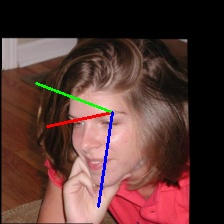
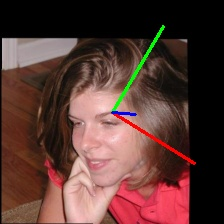
Adding wing loss

Changed region(s): [[0.1562, 0.0938, 0.875, 0.9375]]

diff --git a/losses.py b/losses.py
@@ -1,19 +1,24 @@
 from model.morhaple_face_model import PCA
 from data_generator.labels_preprocessing import label_to_3DMM, label_to_pt2d
 import tensorflow as tf
-from tensorflow.math import square, reduce_sum
-from tensorflow.keras.losses import Loss, Huber
+from tensorflow.math import square, reduce_sum, log, abs, less, greater_equal
+from tensorflow.keras.losses import Loss, Huber, MeanSquaredError
 
 class Synergy_Loss(Loss):
     def __init__(self, lamda_1=0.02, lamda_2=0.05, lamda_3=0.02,\
-         lamda_4=0.001, input_shape=(224, 224, 3), **kwargs):
+         lamda_4=0.001, input_shape=(224, 224, 3),\
+              omega=10, epsilon=2, **kwargs):
         super(Synergy_Loss, self).__init__(**kwargs)
         self.lamda_1 = lamda_1
         self.lamda_2 = lamda_2
         self.lamda_3 = lamda_3
         self.lamda_4 = lamda_4
         self.huber = Huber()
+        self.mse = MeanSquaredError()
         self.input_shape = input_shape
+        self.omega = omega
+        self.epsilon = epsilon
+        self.log_term = log(1 + self.omega/self.epsilon)
         self.pca = PCA(input_shape=self.input_shape)
         
     def call(self, y_gt, y_pred):
@@ -28,7 +33,7 @@ class Synergy_Loss(Loss):
         L_gt = self.pca(pose_3DMM_gt, alpha_exp_gt, alpha_shp_gt)
         Lr = self.pca(pose_3DMM, alpha_exp, alpha_shp)
 
-        L3DMM = self.L3DMM_loss(pose_3DMM_gt, pose_3DMM)
+        L3DMM = self.L3DMM_loss(y_gt, y_pred)
         L_lmk = self.L_lmk_loss(L_gt, Lr)
         L3DMM_lmk = 0#self.L3DMM_lmk_loss(pose_3DMM_true, pose_3DMM_hat)
         Lg = 0#self.Lg_loss(pose_3DMM, pose_3DMM_hat)
@@ -41,11 +46,19 @@ class Synergy_Loss(Loss):
         return {**base_config, "lamda_1": self.lamda_1,\
              "lamda_2": self.lamda_2, "lamda_3": self.lamda_3, "lamda_4": self.lamda_4}
 
-    def L3DMM_loss(self, alpha_true, alpha_pred):
-        return reduce_sum(square(alpha_true - alpha_pred))
+    def L3DMM_loss(self, y_gt, y_pred):
+        return self.mse(y_gt[:, 0:12], y_pred[:, 0:12]) #+ self.mse(y_gt[:, 12:], y_pred[:, 12:])
 
-    def L_lmk_loss(self, L_true, L_pred):
-        return self.huber(L_true, L_pred)
+    def L_lmk_loss(self, L_gt, L_pred):
+        y_pred = tf.reshape(L_pred, (-1, L_pred.shape[1]*3))
+        y_gt = tf.reshape(L_gt, (-1, L_gt.shape[1]*3))
+        delta_y = abs(y_gt - y_pred)
+        is_less_than = less(delta_y, self.omega)
+        loss1 = self.omega * log(1 + delta_y/self.epsilon)
+        C = self.omega * (1 - self.log_term)
+        loss2 = delta_y - C
+        loss = tf.where(is_less_than, loss1, loss2)
+        return loss
     
     def L3DMM_lmk_loss(self, alpha_true, alpha_hat):
         return reduce_sum(square(alpha_true - alpha_hat))

diff --git a/sanity_check.py b/sanity_check.py
@@ -29,13 +29,13 @@ list_ids = ["300W-LP/300W_LP/AFW/AFW_134212_1_2"]#, "300W-LP/300W_LP/HELEN_Flip/
 images, y = training_data_generator.data_generation(list_ids)
 
 model = create_synergy(input_shape=input_shape)
-optimizer = Nadam(learning_rate=0.00001)
+optimizer = Nadam(learning_rate=0.0001)
 loss_function = Synergy_Loss()
 # train_on_image(model, images, y, 5000, loss_function, optimizer, False)
 
 model.compile(optimizer, loss_function)
 print(model.summary())
-model.fit(images, y, verbose=1, epochs=10000)
+model.fit(images, y, verbose=1, epochs=1000)
 
 DMM = model.predict(images)
 
